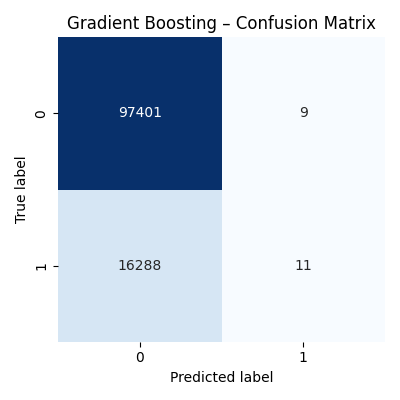
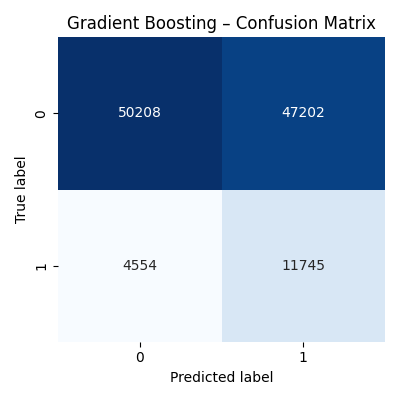
Fix + update - fixed sample weight to GB model and updated main with prediction threshold

diff --git a/src/main.py b/src/main.py
@@ -11,6 +11,10 @@ from features import select_direct_features, add_engineered_features
 from train import train_logistic_regression, train_random_forest, train_gradient_boosting
 from evaluate import evaluate_classification
 
+#Thresold tuning
+PREDICTION_THRESHOLD = 0.60
+
+
 # Load data
 BASE_DIR = Path(__file__).resolve().parent
 DATA_PATH = BASE_DIR.parent / "data" / "all_waybill_info_meituan_0322.csv"
@@ -118,6 +122,12 @@ y_test = test_df["y_class"]
 model = train_logistic_regression(X_train, y_train)
 rf_model = train_random_forest(X_train, y_train)
 gb_model = train_gradient_boosting(X_train, y_train)
+
+print("Train class distribution:")
+print(y_train.value_counts(normalize=True))
+
+print("Test class distribution:")
+print(y_test.value_counts(normalize=True))
 
 # Evaluate model (2.5)
 lr_metrics = evaluate_classification(model, X_test, y_test)

diff --git a/src/train.py b/src/train.py
@@ -28,6 +28,7 @@ def train_random_forest(X_train, y_train):
     return model
 
 from sklearn.ensemble import GradientBoostingClassifier
+from sklearn.utils.class_weight import compute_sample_weight
 
 def train_gradient_boosting(X_train, y_train):
     model = GradientBoostingClassifier(
@@ -36,5 +37,6 @@ def train_gradient_boosting(X_train, y_train):
         max_depth=3,
         random_state=42
     )
-    model.fit(X_train, y_train)
+    sample_weight = compute_sample_weight(class_weight="balanced", y=y_train)
+    model.fit(X_train, y_train, sample_weight=sample_weight)
     return model
